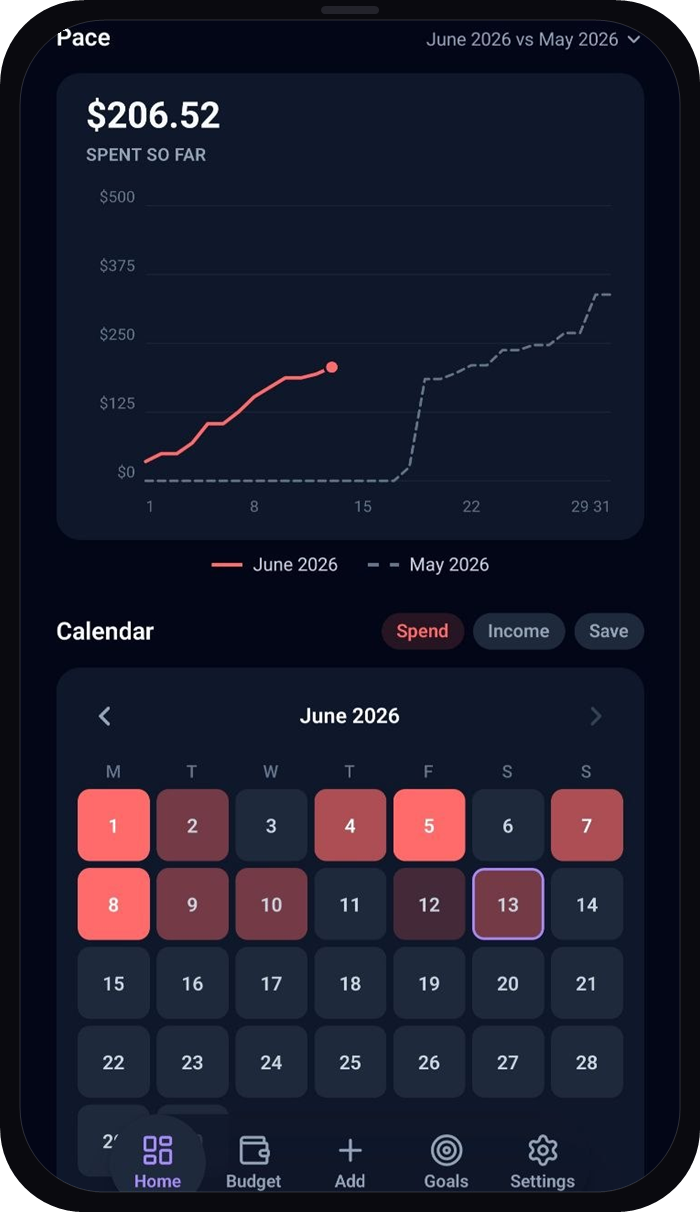
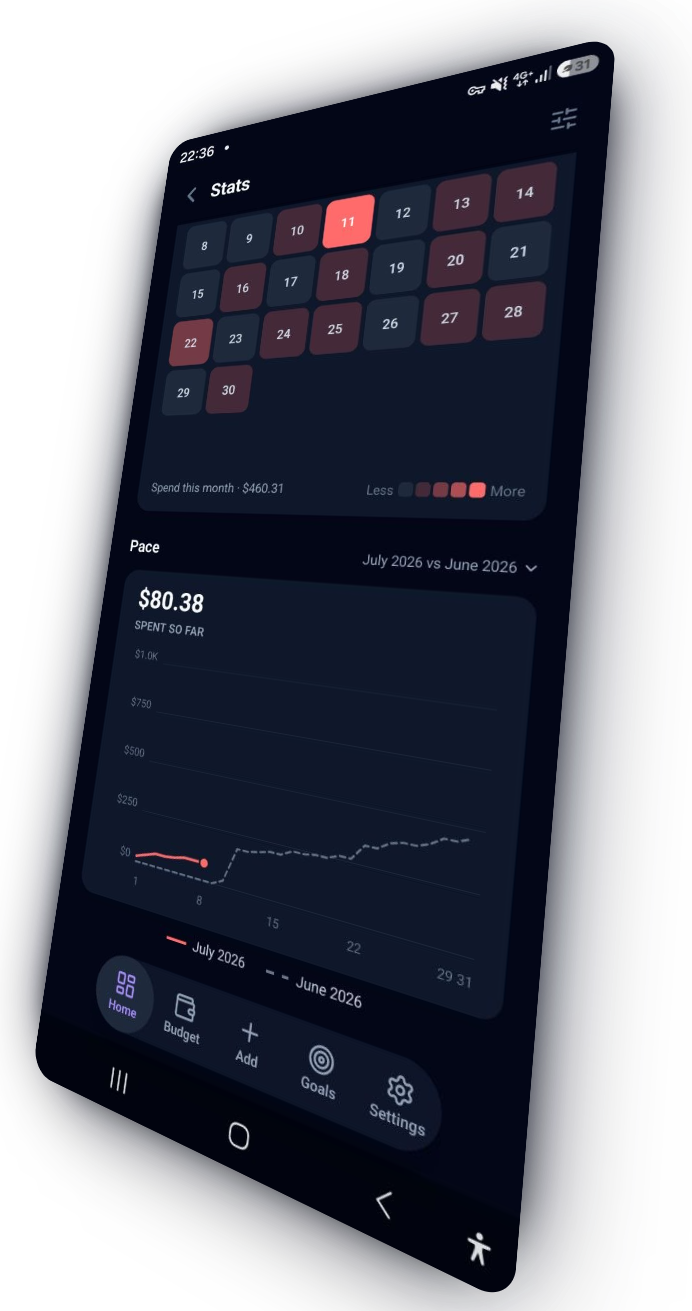
Hero: angled 3D phone mockup (Shots render, Stats + Pace screen)

diff --git a/index.html b/index.html
@@ -147,11 +147,11 @@
       /* Phone / rings art */
       .art { display: flex; justify-content: center; }
       .hero-mock {
-        width: 268px;
-        max-width: 80vw;
+        width: 300px;
+        max-width: 82vw;
         height: auto;
         display: block;
-        filter: drop-shadow(0 26px 50px rgba(76, 29, 149, 0.45));
+        filter: drop-shadow(0 22px 44px rgba(76, 29, 149, 0.32));
       }
 
       /* App icon in the top bar */